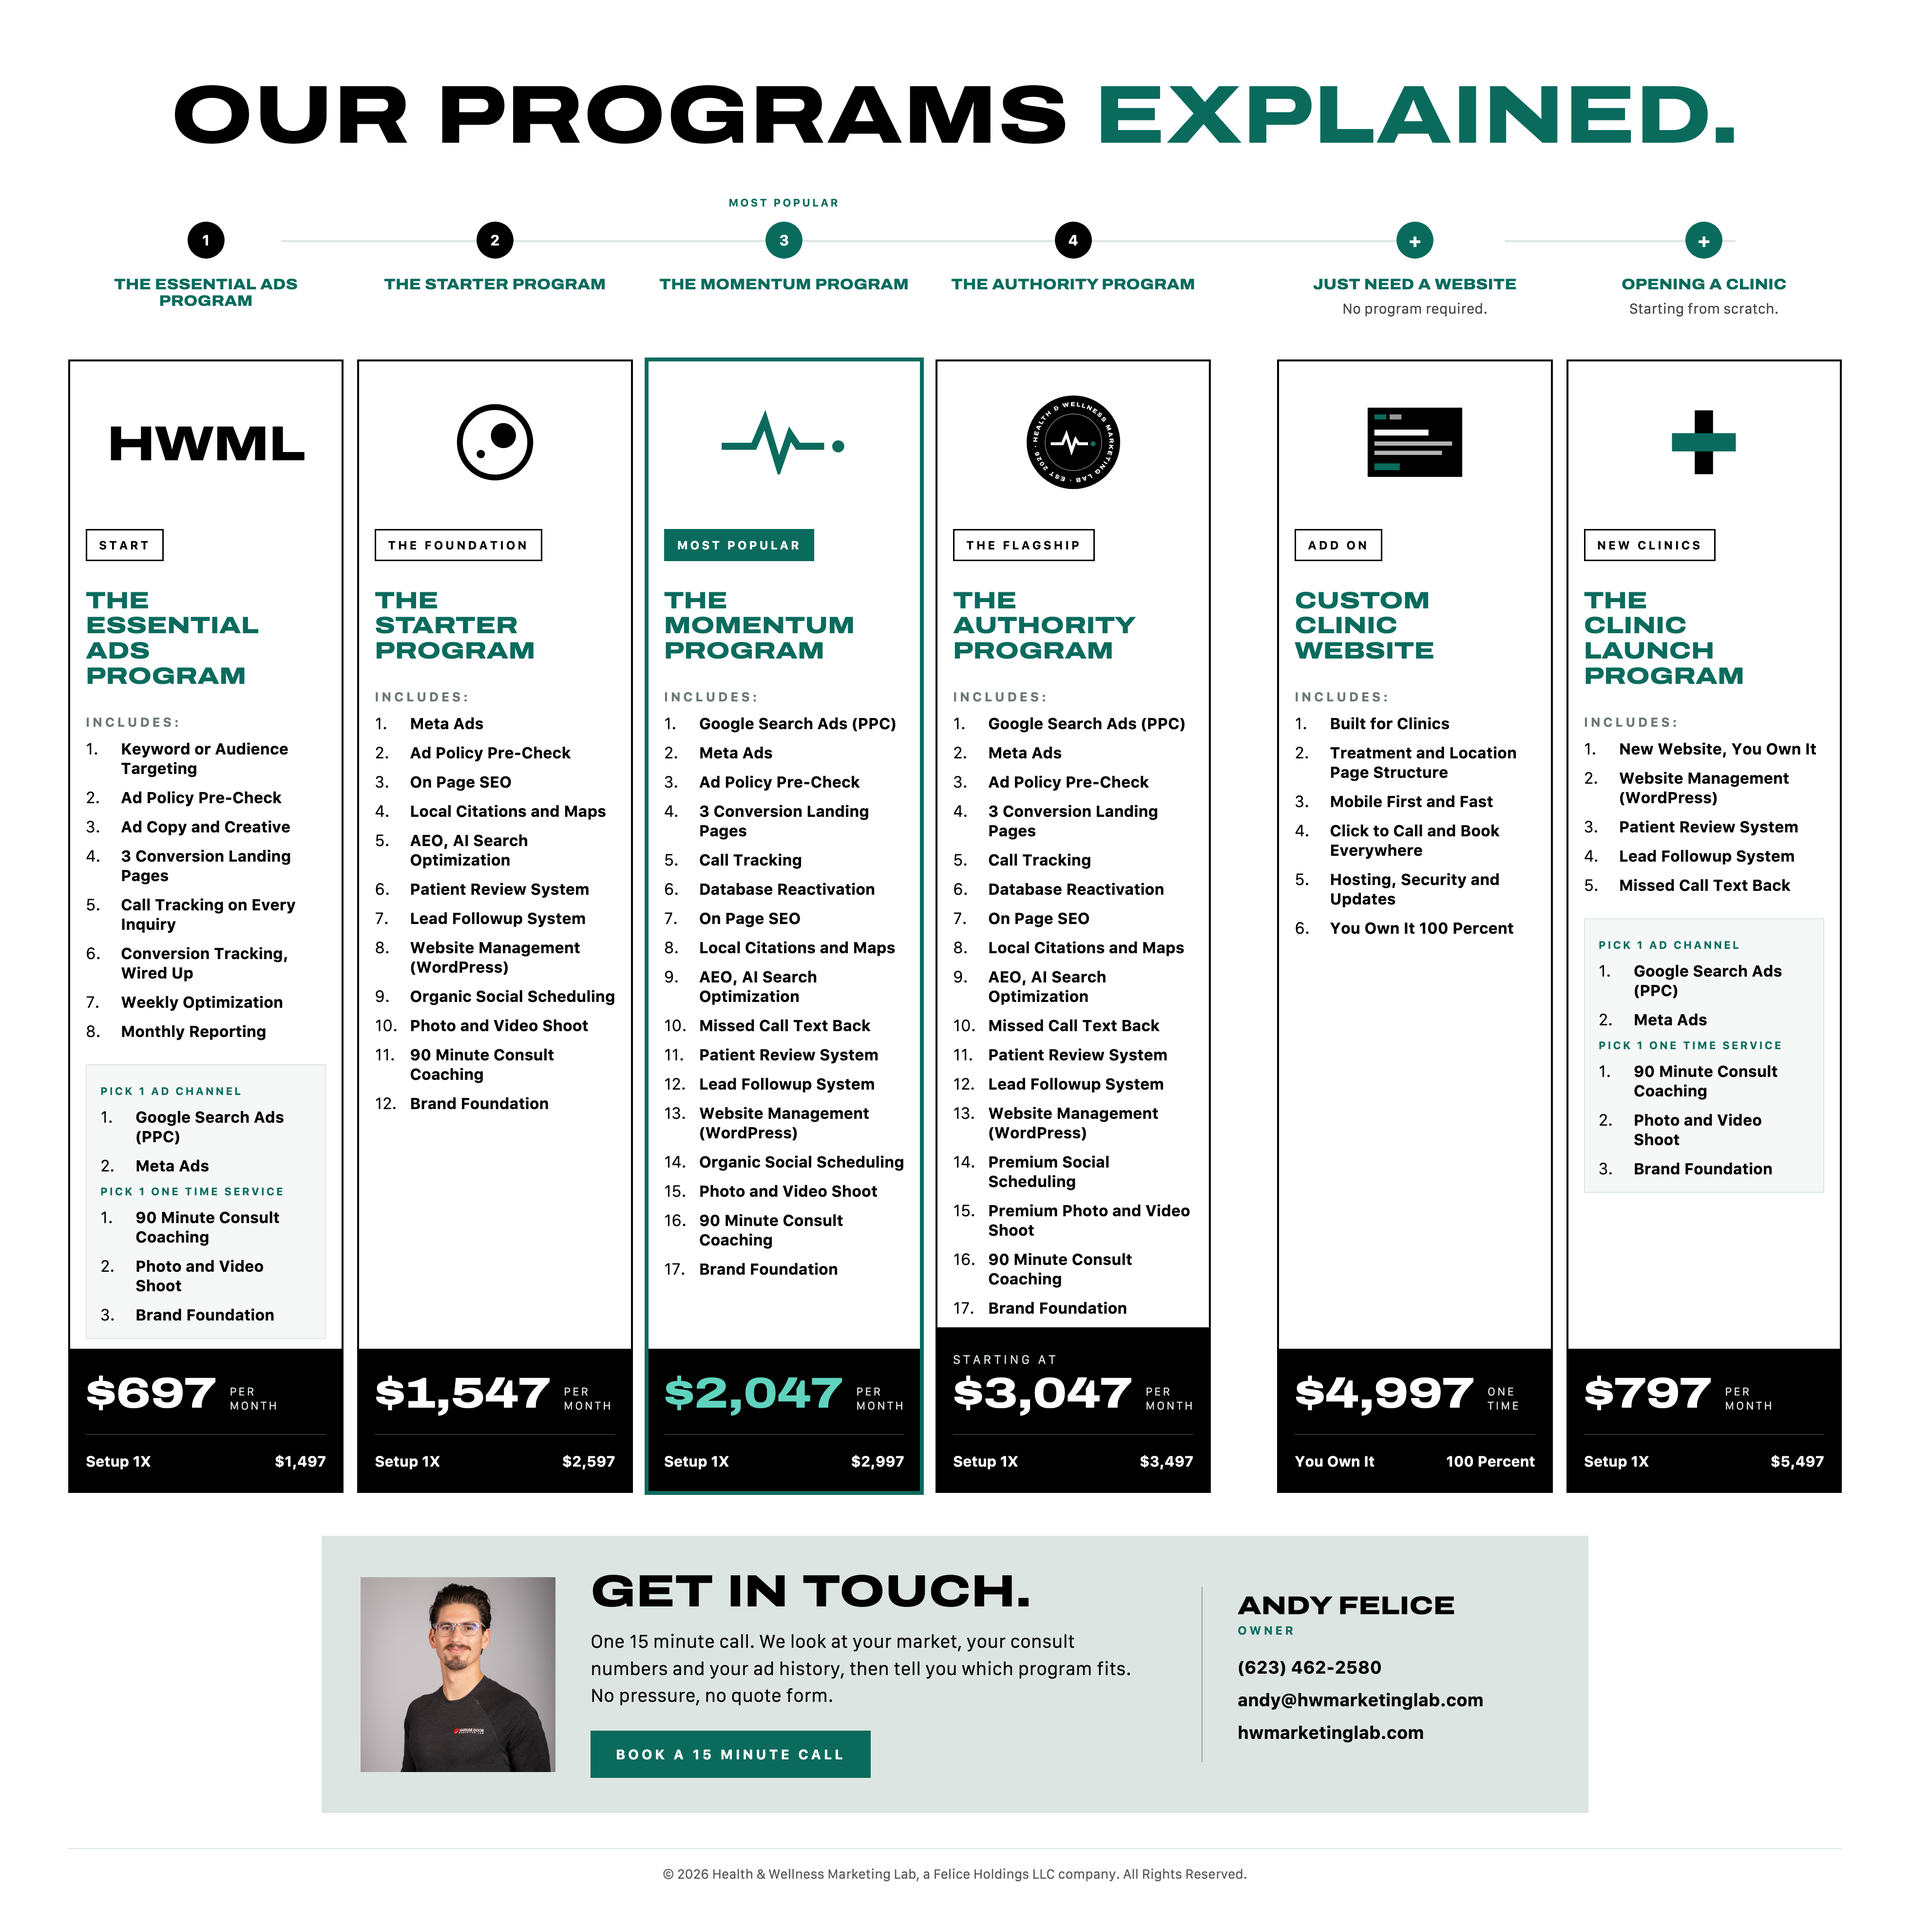
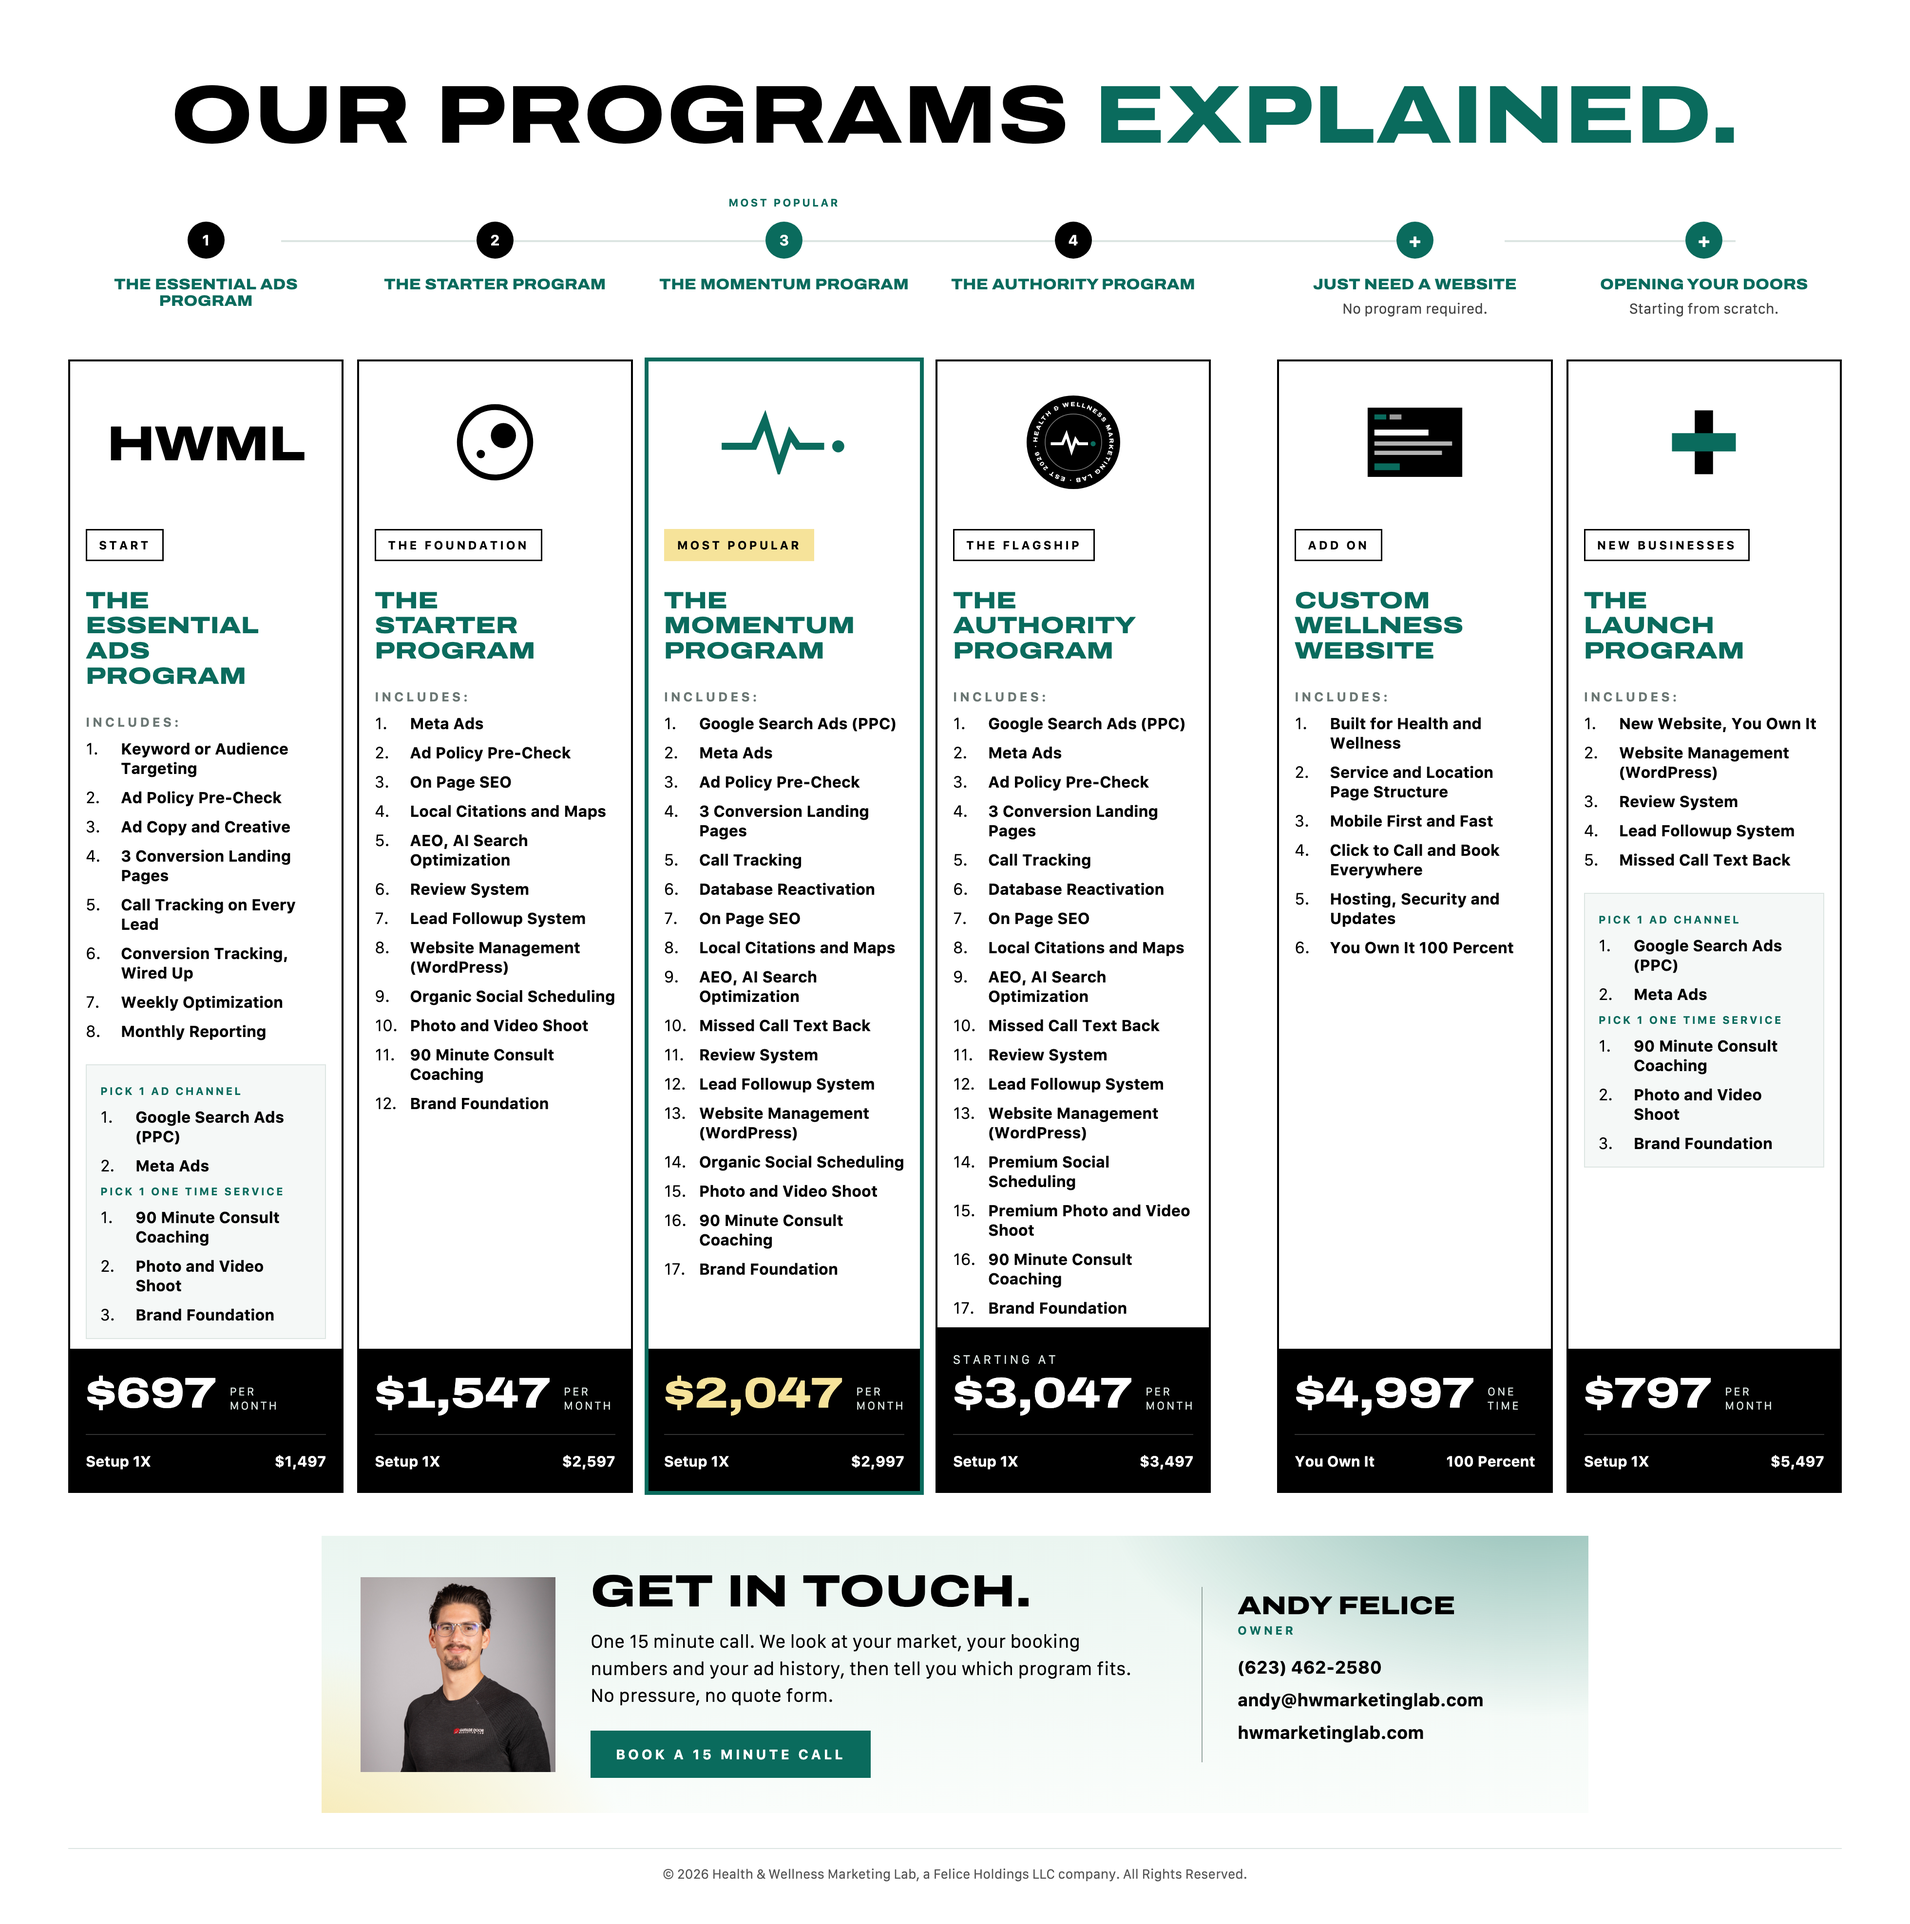
Programs graphic: broader wellness wording, Sun yellow accent

diff --git a/assets/hwml.css b/assets/hwml.css
@@ -10,12 +10,13 @@
   font-weight: 700; font-display: block; }
 
 :root {
-  /* the five brand colors */
+  /* the six brand colors */
   --jade: #0A6B5D;      /* signature: the one accent per view */
   --black: #000000;
   --white: #FFFFFF;
   --mist: #DCE5E2;      /* cool light grey, GDML #DCDCDC with a jade tint */
   --sage: #93A39E;      /* mid grey, GDML #959595 with a jade tint */
+  --sun: #F6E39A;       /* soft yellow accent, added 11/8/26 from site feedback: highlights and the color wash */
   /* working shades (never shown as brand swatches) */
   --jade-deep: #07504A;
   --paper: #F5F8F7;
